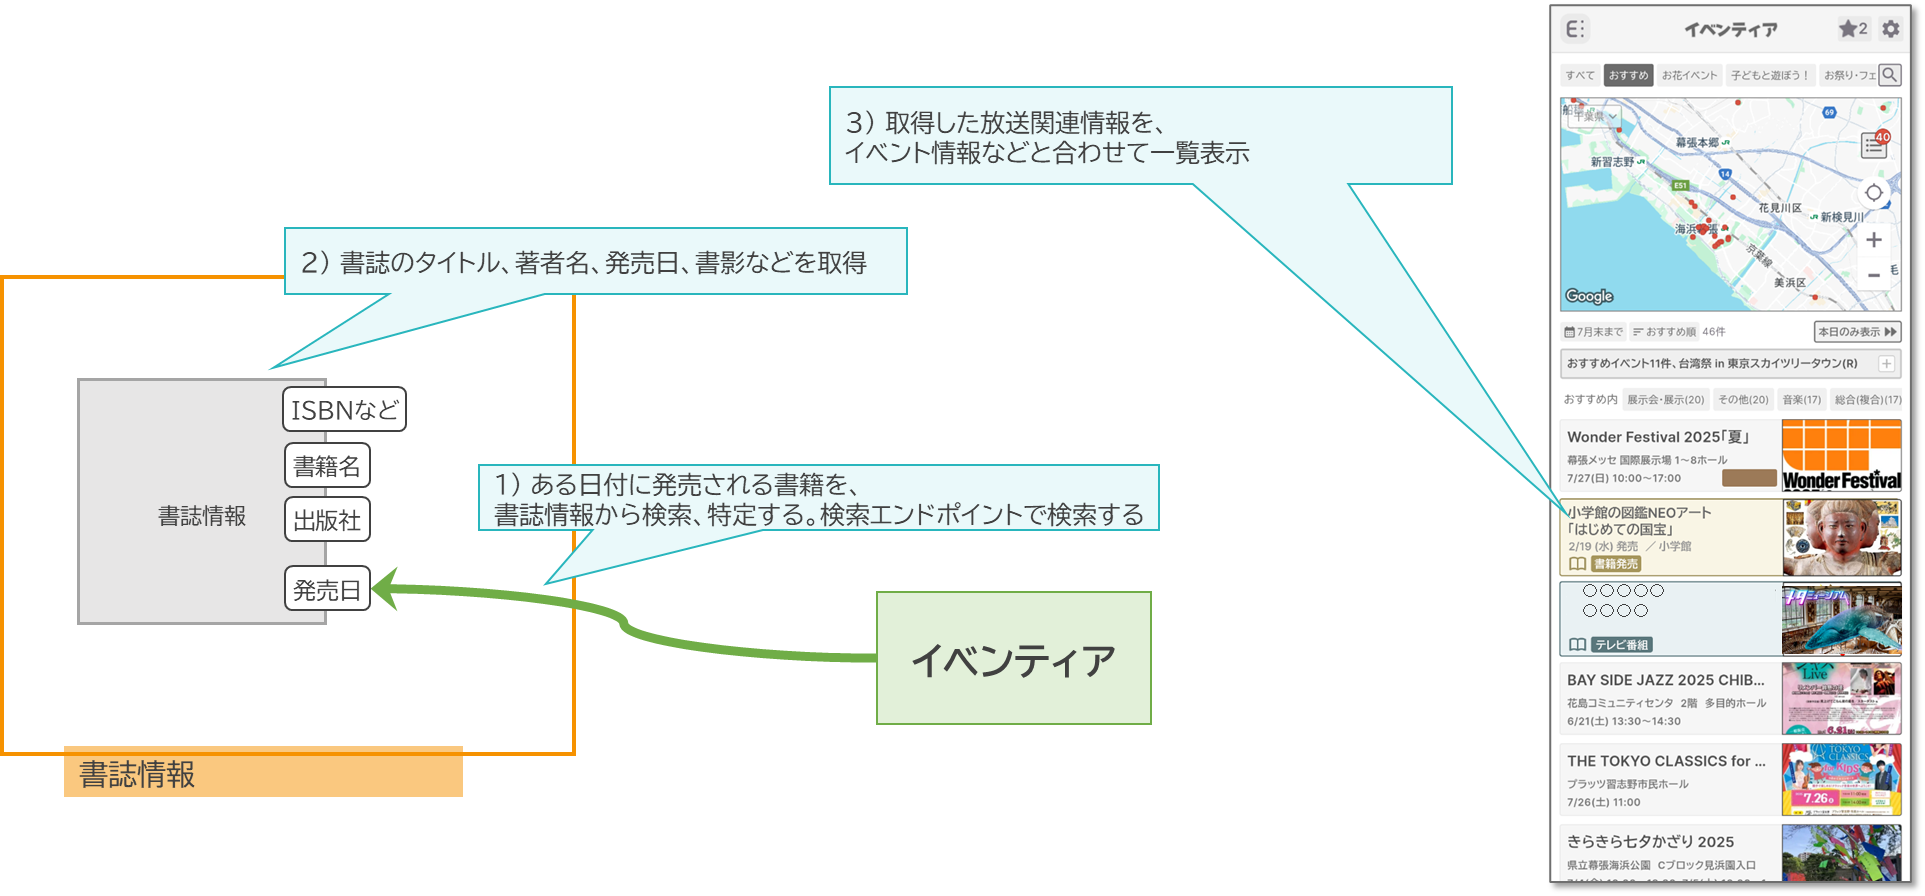
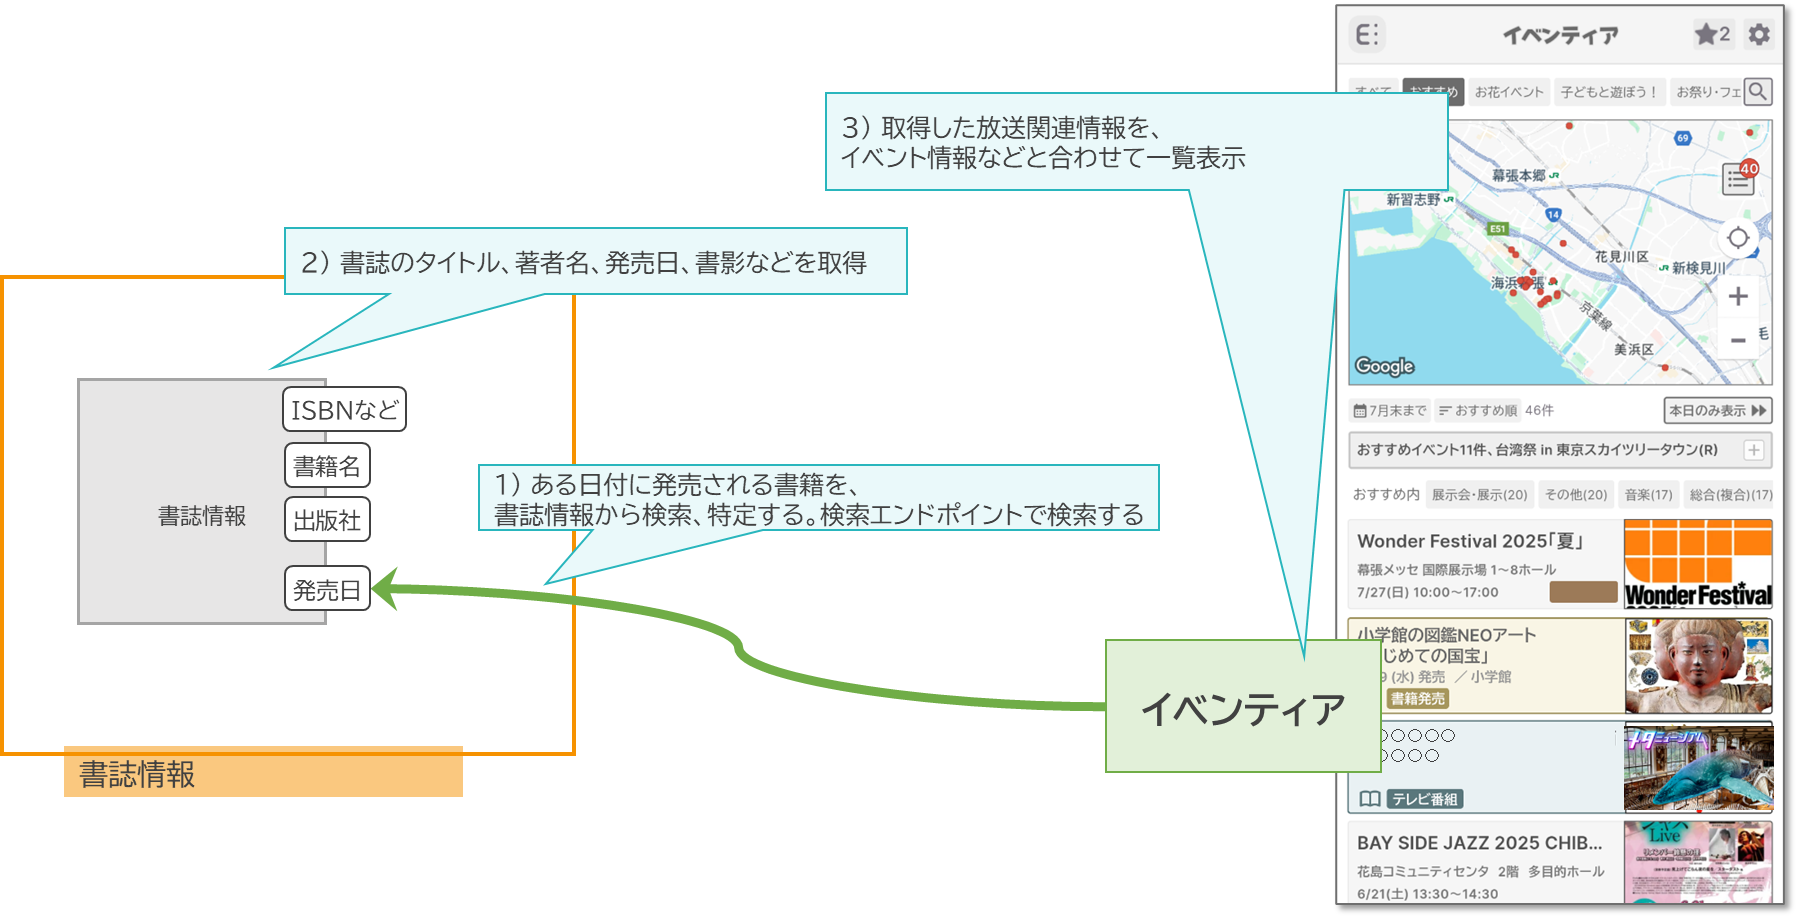
update demo1

diff --git a/reports/use-cases/event-metadata/interop-demo1.md b/reports/use-cases/event-metadata/interop-demo1.md
@@ -5,21 +5,35 @@
 ## 試作・検証事例
 
 ### 日付から番組情報取得
+- ある日時に放送されている番組を、放送編成枠情報の検索エンドポイントで検索する
+- 放送編成枠情報に紐づくTVエピソードを特定する
+- 番組エピソード名や、サムネイル画像などを視聴放送編成枠情報に紐づくTVエピソードを特定する
+- 取得した放送関連情報を、イベント情報などと合わせて一覧表示
 
-<img src="https://w3c-cg.github.io/mcm-jp/reports/use-cases/event-metadata/interop1a.png" alt="interop1a" width="800" />
-
+<figure>
+  <img src="https://w3c-cg.github.io/mcm-jp/reports/use-cases/event-metadata/interop1a.png" alt="interop1a" width="800" />
+  <figcatption>Fig. 日付から番組情報取得フロー</figcaption>
+</figure>
 
 ### 日付から書籍情報取得
-<img src="https://w3c-cg.github.io/mcm-jp/reports/use-cases/event-metadata/interop1b.png" alt="interop1b" width="800" />
-
+<figure>
+  <img src="https://w3c-cg.github.io/mcm-jp/reports/use-cases/event-metadata/interop1b.png" alt="interop1b" width="800" />
+  <figcatption>Fig. 日付から書籍情報取得</figcaption>
+</figure>
 
 
 ### 位置情報から番組情報取得
-<img src="https://w3c-cg.github.io/mcm-jp/reports/use-cases/event-metadata/interop1c.png" alt="interop1c" width="800" />
+<figure>
+  <img src="https://w3c-cg.github.io/mcm-jp/reports/use-cases/event-metadata/interop1c.png" alt="interop1c" width="800" />
+  <figcatption>Fig. 位置情報から番組情報取得</figcaption>
+</figure>
 
 
 ### 放送番組情報から関連する関連する書誌情報の取得
-<img src="https://w3c-cg.github.io/mcm-jp/reports/use-cases/event-metadata/interop1d.png" alt="interop1d" width="800" />
+<figure>
+  <img src="https://w3c-cg.github.io/mcm-jp/reports/use-cases/event-metadata/interop1d.png" alt="interop1d" width="800" />
+  <figcatption>Fig. 放送番組情報から関連する関連する書誌情報の取得</figcaption>
+</figure>
 
 
 ## 関連メタデータ仕様
